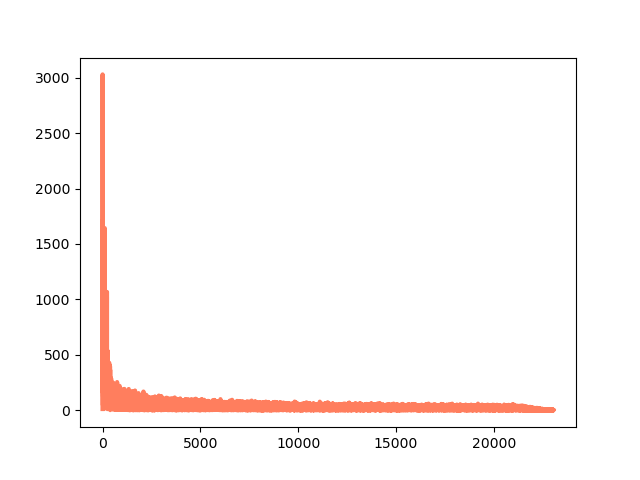
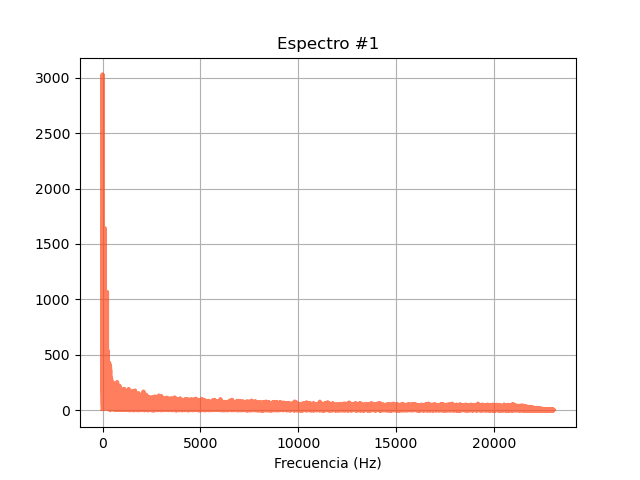
Commit_02: Mejoras del layout

diff --git a/test1.py b/test1.py
@@ -30,8 +30,8 @@ tabControl.pack(expand=1,fill="both")
 #Variable global para control de etiqueta de cada grabación
 global etiqueta
 etiqueta=0
-# global wIn1_Img
-# global sIn1
+global durations
+durations=["00:00:01","00:00:02","00:00:03"]
 #Función para iniciar grabación 
 def StartRecording():
     global etiqueta
@@ -39,6 +39,8 @@ def StartRecording():
     H=int(sBox1.get())*60*60
     M=int(sBox2.get())*60
     S=int(sBox3.get())
+    global durations
+    durations.append(sBox1.get()+':'+sBox2.get()+':'+sBox3.get()) #Adds duration of recording to array for further use
     fs = 46100 #Sample Rate
     seconds = (H+M+S) #Duration of recording
     recording = sd.rec(int(seconds*fs), samplerate=fs, channels=2,dtype=np.int16)
@@ -49,14 +51,26 @@ def StartRecording():
 def OpenPath(event):
     os.startfile(os.getcwd())
 
+#Función para mostrar duración de cada grabación
+def ShowDuration(x):
+    label = Label(frame4, text=durations[x-1])
+    label.grid(row=x, column=1, sticky="nsew", padx=1, pady=1)
+    # label.bind("<Button>",OpenPath)
+
 #Funcion para guardar figuras de onda y mostrarlas(#1)
 def Save_Show_Wave_Spec(x):
     WaveIn = read_wave('outputRecording'+str(x)+'.wav')
     WaveIn.plot(color='#66a3ff')
+    plt.xlabel('Tiempo (s)')
+    plt.title('Onda #'+str(x))
+    plt.grid(True)
     plt.savefig('Wave'+str(x)+'.png')
     plt.clf()
     SpecIn = WaveIn.make_spectrum()
     SpecIn.plot(color='#ff471a')
+    plt.xlabel('Frecuencia (Hz)')
+    plt.title('Espectro #'+str(x))
+    plt.grid(True)
     plt.savefig('Spectrum'+str(x)+'.png')
     plt.clf()
     #WaveImage
@@ -65,14 +79,15 @@ def Save_Show_Wave_Spec(x):
     render1=ImageTk.PhotoImage(wIn_Img)
     wIn_Label = Label(frame4,image=render1)
     wIn_Label.image = render1
-    wIn_Label.grid(row=x, column=6, sticky="nsew", padx=1, pady=1)
+    wIn_Label.grid(row=x, column=5, sticky="nsew", padx=1, pady=1)
     #SpectrumImage
     sIn_Img=Image.open('Spectrum'+str(x)+'.png')
     sIn_Img = sIn_Img.resize((int((sIn_Img.width)-((sIn_Img.width)*0.5)),int((sIn_Img.height)-((sIn_Img.height)*0.5))), Image.ANTIALIAS)
     render2=ImageTk.PhotoImage(sIn_Img)
     sIn_Label = Label(frame4,image=render2)
     sIn_Label.image=render2
-    sIn_Label.grid(row=x, column=7, sticky="nsew", padx=1, pady=1)
+    sIn_Label.grid(row=x, column=6, sticky="nsew", padx=1, pady=1)
+    ShowDuration(x)
 
 #Creates first frame, for recording controls and button
 frame = tk.Frame(tab1, bg='#b3ccff', bd=1)
@@ -87,7 +102,7 @@ frame3 = tk.Frame(tab3, bg='#b3ccff', bd=1)
 frame3.place(relx=0.21, rely=0, relwidth=0.4, relheight=0.15)
 
 #Creates fourth frame, for signal description
-frame4 = tk.Frame(tab2, bg='#006600', bd=1)
+frame4 = tk.Frame(tab2, bg='#b3ccff', bd=1)
 frame4.place(relx=0, rely=0, relwidth=1.2, relheight=1.3)
 #------------------------------------FRAME #1------------------------------------------#
 #Creates Button
@@ -134,58 +149,54 @@ label.grid(row=3, column=1, sticky="nsew", padx=1, pady=1)
 
 #----------------------------------FRAME #4--------------------------------------------#
 #Creates Grid for signals info.
-#Columna #1(Botón de play)
-label = Label(frame4, text="    ")
-label.grid(row=0, column=1, sticky="nsew", padx=1, pady=1)
-btn2 = tk.Button(frame4, text="Play Signal #1")
-btn2.grid(row=1, column=1, sticky="nsew", padx=1, pady=1)
-btn3 = tk.Button(frame4, text="Play Signal #2")
-btn3.grid(row=2, column=1, sticky="nsew", padx=1, pady=1)
-btn4 = tk.Button(frame4, text="Play Signal #3")
-btn4.grid(row=3, column=1, sticky="nsew", padx=1, pady=1)
-#Columna #2(Título)
+#Columna #0(Título)
 label = Label(frame4, text="Título")
-label.grid(row=0, column=2, sticky="nsew", padx=1, pady=1)
+label.grid(row=0, column=0, sticky="nsew", padx=1, pady=1)
 label = Label(frame4, text="Señal #1")
-label.grid(row=1, column=2, sticky="nsew", padx=1, pady=1)
+label.grid(row=1, column=0, sticky="nsew", padx=1, pady=1)
 label = Label(frame4, text="Señal #2")
-label.grid(row=2, column=2, sticky="nsew", padx=1, pady=1)
+label.grid(row=2, column=0, sticky="nsew", padx=1, pady=1)
 label = Label(frame4, text="Señal #3")
-label.grid(row=3, column=2, sticky="nsew", padx=1, pady=1)
-#Columna #3(Duración)
-label = Label(frame4, text="Duración")
-label.grid(row=0, column=3, sticky="nsew", padx=1, pady=1)
-label = Label(frame4, text="Insetar duración #1")
-label.grid(row=1, column=3, sticky="nsew", padx=1, pady=1)
-label = Label(frame4, text="Insetar duración #2")
-label.grid(row=2, column=3, sticky="nsew", padx=1, pady=1)
-label = Label(frame4, text="Insetar duración #3")
-label.grid(row=3, column=3, sticky="nsew", padx=1, pady=1)
-#Columna #4(Ubicación)
+label.grid(row=3, column=0, sticky="nsew", padx=1, pady=1)
+#Columna #1(Duración)
+label = Label(frame4, text="Duraciones")
+label.grid(row=0, column=1, sticky="nsew", padx=1, pady=1)
+#Columna #2(Ubicación)
 label = Label(frame4, text="Ubicación")
-label.grid(row=0, column=4, sticky="nsew", padx=1, pady=1)
+label.grid(row=0, column=2, sticky="nsew", padx=1, pady=1)
 labelx = Label(frame4, text='Ubicación #1') #Señal 1
-labelx.grid(row=1, column=4, sticky="nsew", padx=1, pady=1)
+labelx.grid(row=1, column=2, sticky="nsew", padx=1, pady=1)
 labelx.bind("<Button>",OpenPath)
 labelx = Label(frame4, text='Ubicación #2') #Señal 2
-labelx.grid(row=2, column=4, sticky="nsew", padx=1, pady=1)
+labelx.grid(row=2, column=2, sticky="nsew", padx=1, pady=1)
 labelx.bind("<Button>",OpenPath)
 labelx = Label(frame4, text='Ubicación #3') #Señal 3
-labelx.grid(row=3, column=4, sticky="nsew", padx=1, pady=1)
+labelx.grid(row=3, column=2, sticky="nsew", padx=1, pady=1)
 labelx.bind("<Button>",OpenPath)
-#Columna #5(Botones para mostrar onda y espectro)
+#Columna #3(Botón de play)
+label = Label(frame4, text="Reproducir Señal")
+label.grid(row=0, column=3, sticky="nsew", padx=1, pady=1)
+btn2 = tk.Button(frame4, text="Play Signal #1")
+btn2.grid(row=1, column=3, sticky="nsew", padx=1, pady=1)
+btn3 = tk.Button(frame4, text="Play Signal #2")
+btn3.grid(row=2, column=3, sticky="nsew", padx=1, pady=1)
+btn4 = tk.Button(frame4, text="Play Signal #3")
+btn4.grid(row=3, column=3, sticky="nsew", padx=1, pady=1)
+#Columna #4(Botones para mostrar onda y espectro)
+label = Label(frame4, text="Mostrar Datos")
+label.grid(row=0, column=4, sticky="nsew", padx=1, pady=1)
 btn5 = tk.Button(frame4, text="Mostrar Datos #1", command= lambda: Save_Show_Wave_Spec(1))
-btn5.grid(row=1, column=5, sticky="nsew", padx=1, pady=1)
+btn5.grid(row=1, column=4, sticky="nsew", padx=1, pady=1)
 btn6 = tk.Button(frame4, text="Mostrar Datos #2", command= lambda: Save_Show_Wave_Spec(2))
-btn6.grid(row=2, column=5, sticky="nsew", padx=1, pady=1)
+btn6.grid(row=2, column=4, sticky="nsew", padx=1, pady=1)
 btn7 = tk.Button(frame4, text="Mostrar Datos #3", command= lambda: Save_Show_Wave_Spec(3))
-btn7.grid(row=3, column=5, sticky="nsew", padx=1, pady=1)
-#Columna #6(Onda antes del filtro)
+btn7.grid(row=3, column=4, sticky="nsew", padx=1, pady=1)
+#Columna #5(Onda antes del filtro)
 label = Label(frame4, text="Onda Original")
-label.grid(row=0, column=6, sticky="nsew", padx=1, pady=1)
+label.grid(row=0, column=5, sticky="nsew", padx=1, pady=1)
 #Columna #7(Espectro antes del filtro)
 label = Label(frame4, text="Espectro Original")
-label.grid(row=0, column=7, sticky="nsew", padx=1, pady=1)
+label.grid(row=0, column=6, sticky="nsew", padx=1, pady=1)
 
 
 root.mainloop()
